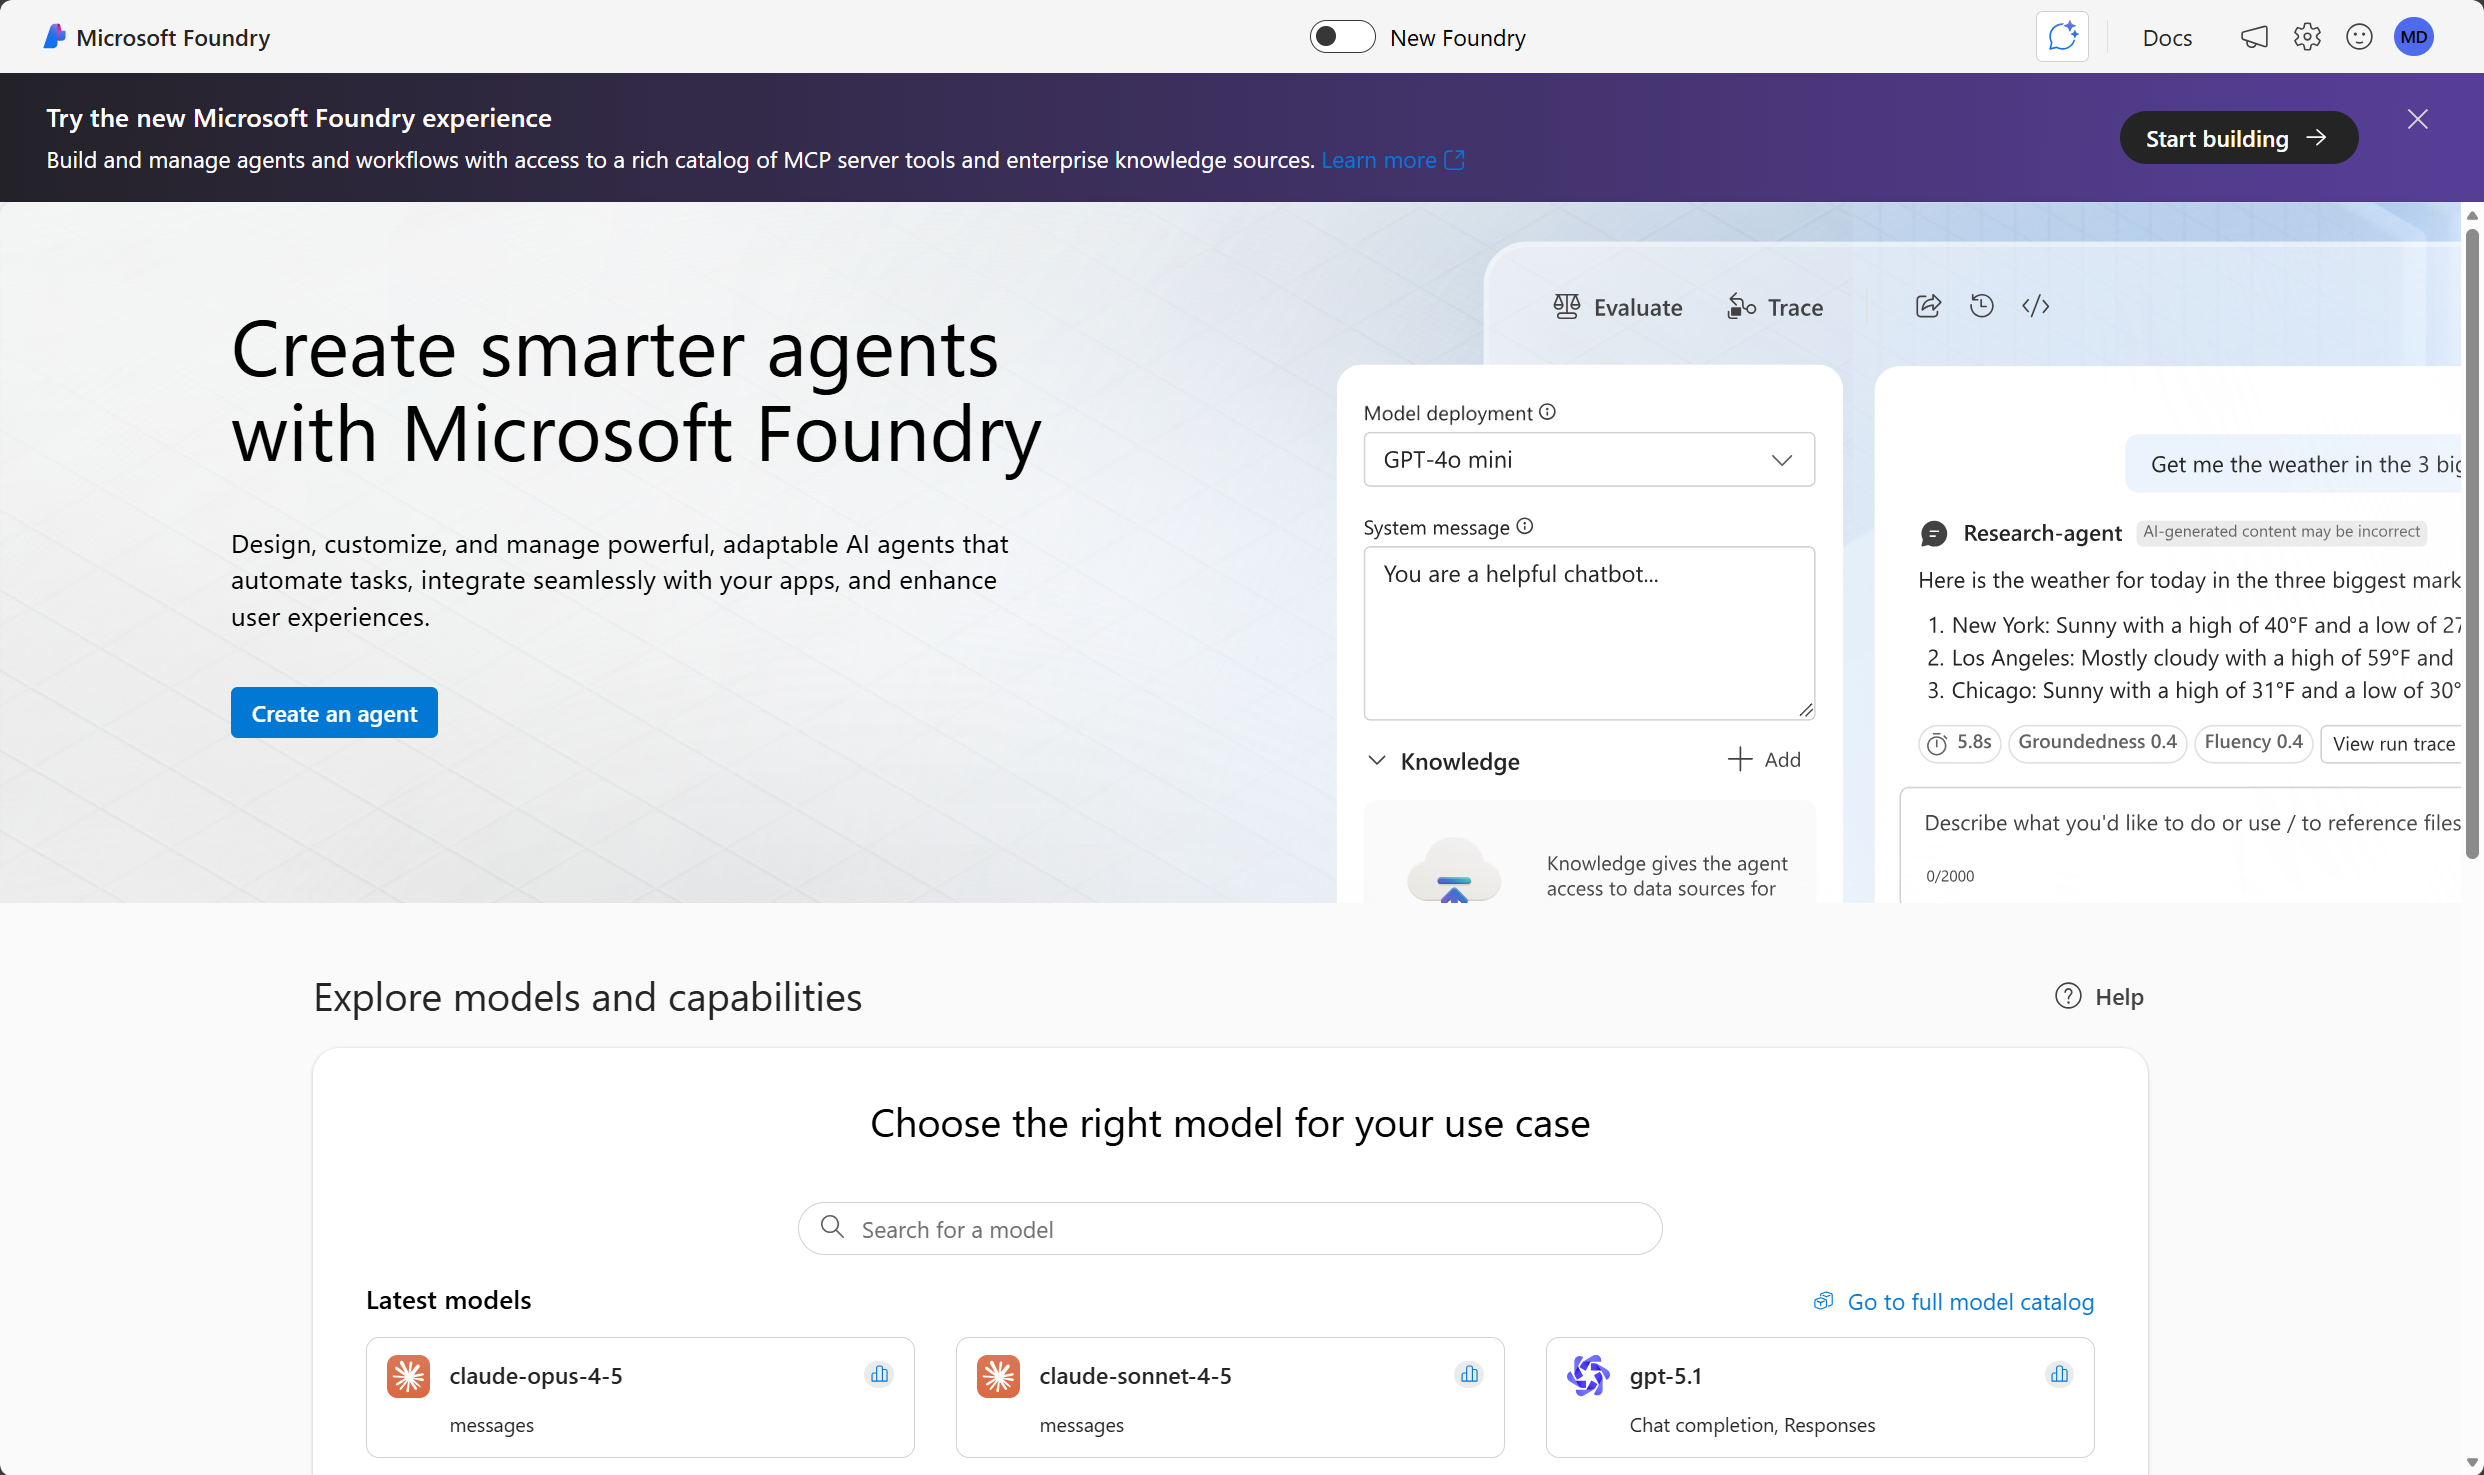
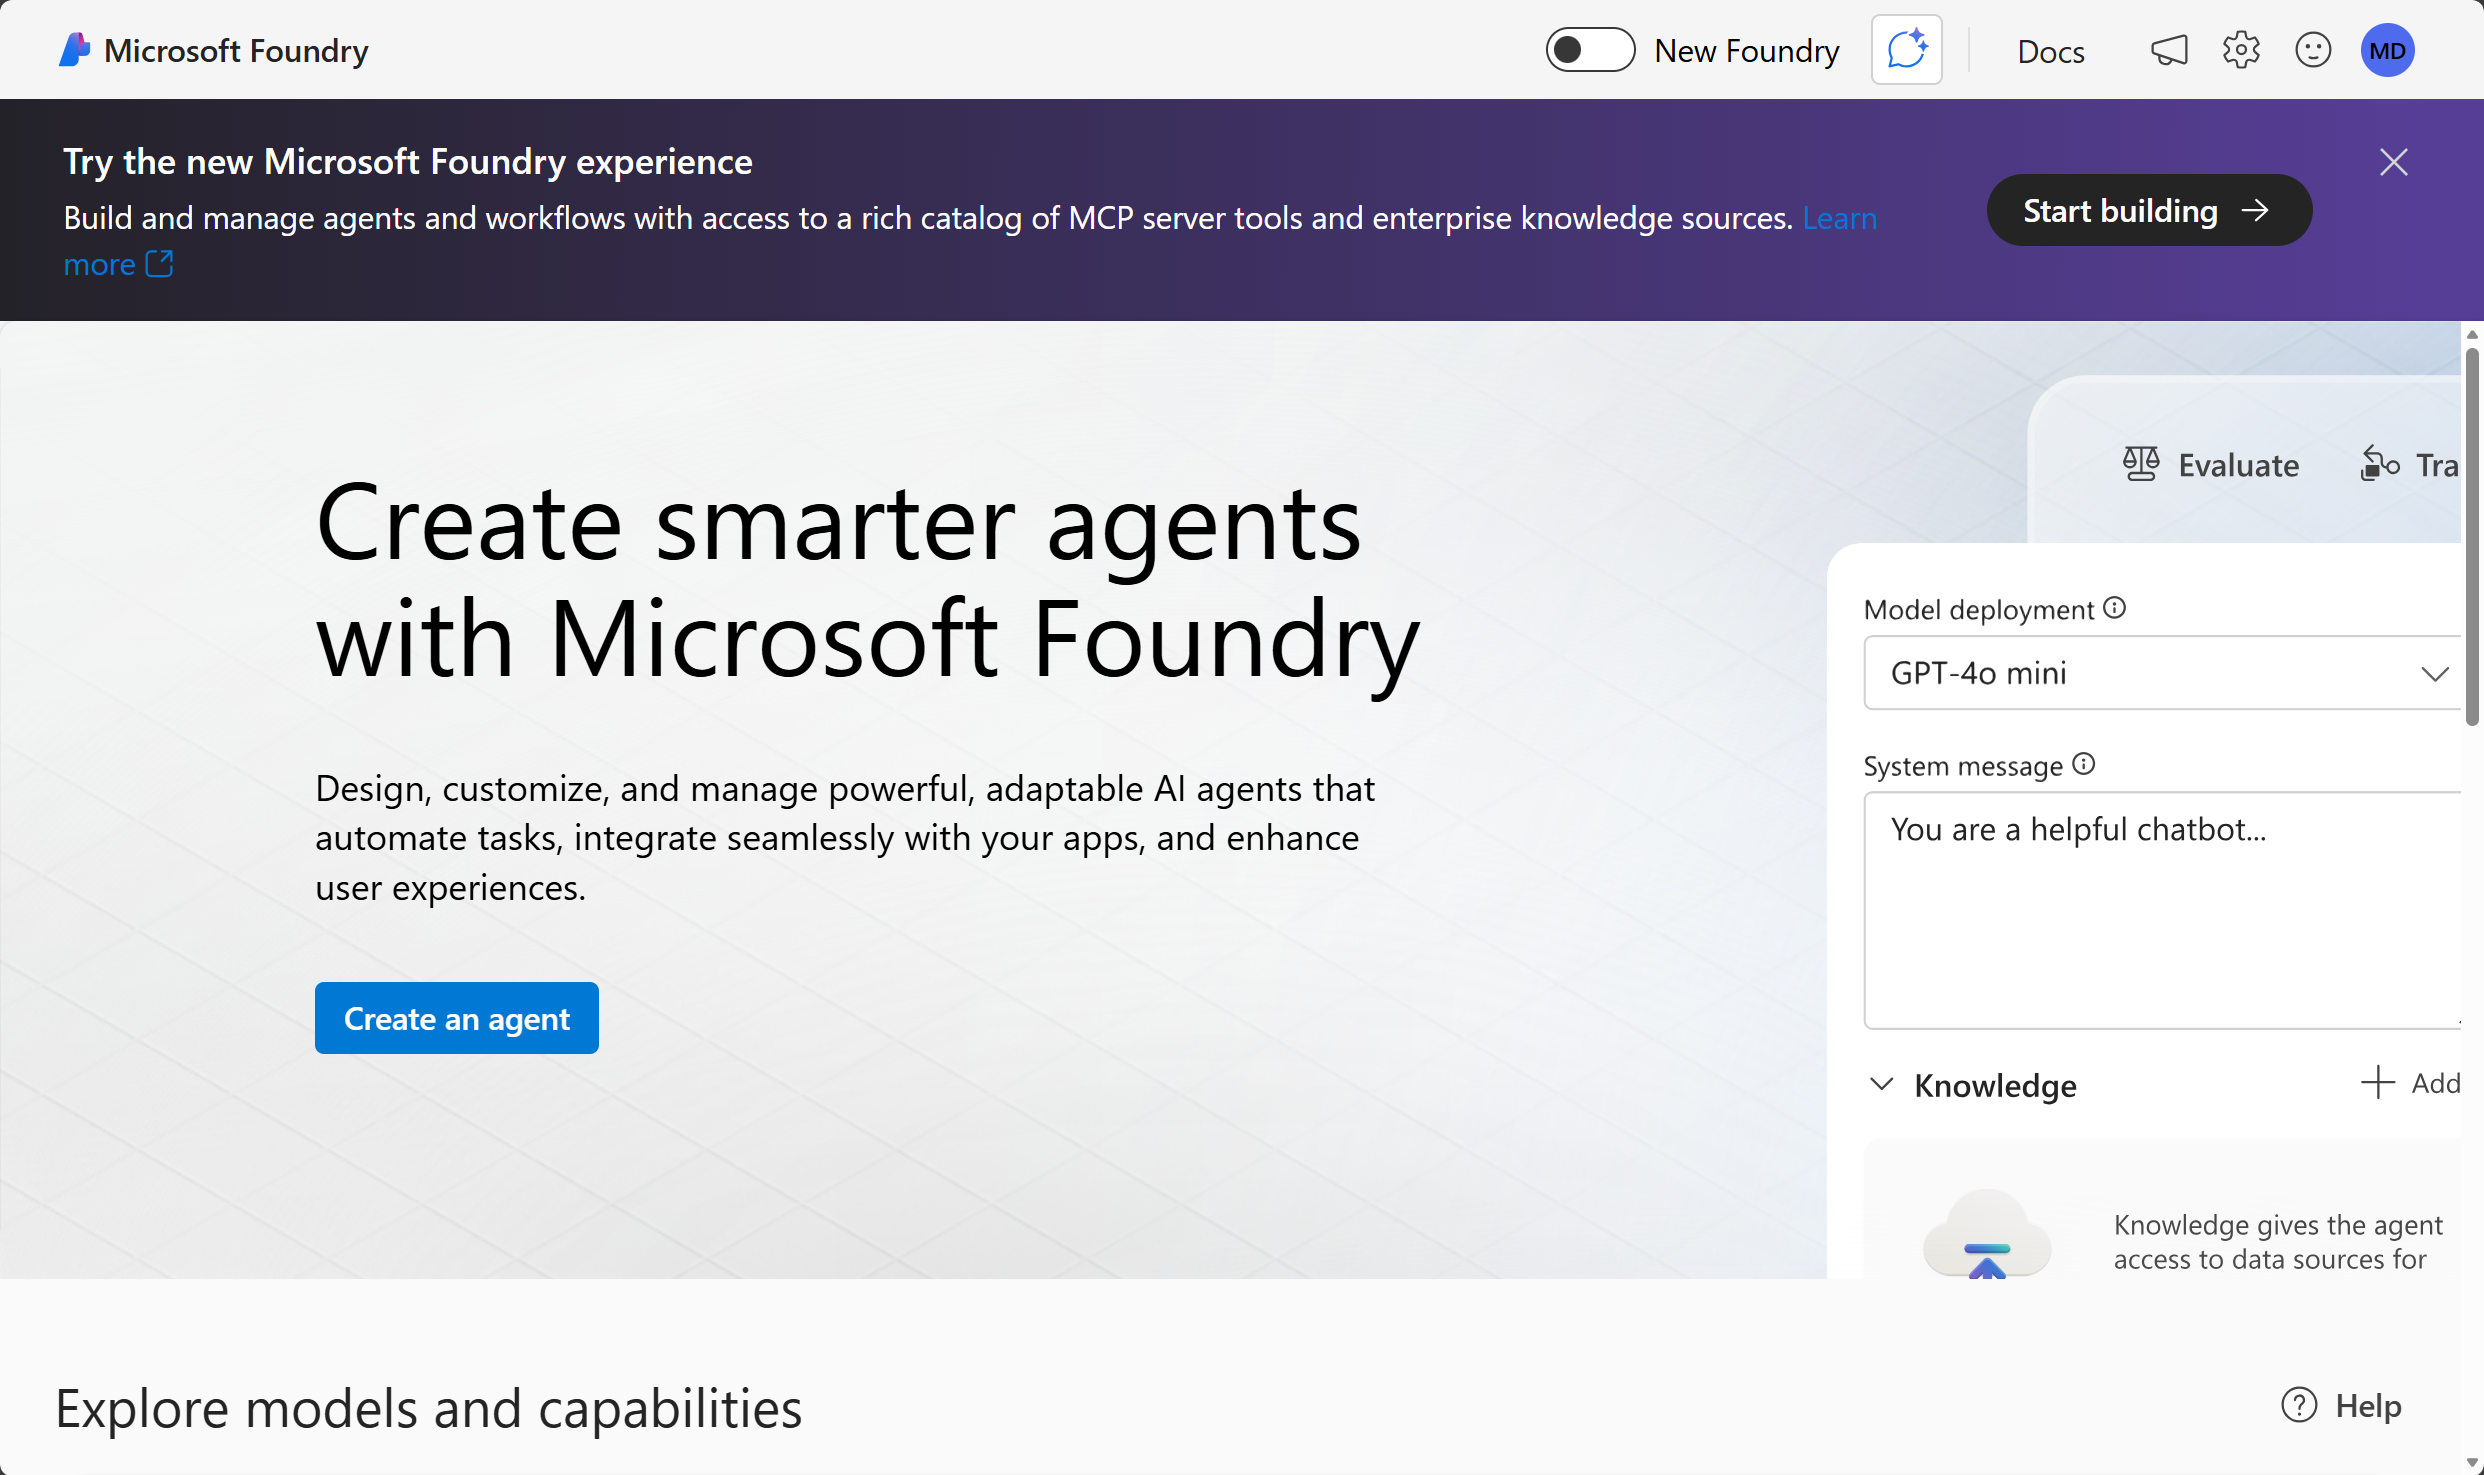
update

diff --git a/Instructions/01-agent-fundamentals.md b/Instructions/01-agent-fundamentals.md
@@ -24,7 +24,7 @@ Let's start by creating a Foundry project.
 1. In the top banner, select **Start building** to try the new Microsoft Foundry Experience.
 1. When prompted, create a **new** project, and enter a valid name for your project.
 1. Expand **Advanced options** and specify the following settings:
-    - **Microsfot Foundry resource**: *A valid name for your Foundry resource*
+    - **Microsoft Foundry resource**: *A valid name for your Foundry resource*
     - **Subscription**: *Your Azure subscription*
     - **Resource group**: *Select your resource group, or create a new one*
     - **Region**: *Select any **AI Foundry recommended***\**
@@ -80,6 +80,25 @@ Now that you've created an agent, you can test it in the playground chat.
     ![Screenshot of the Agent Playground in Foundry portal.](./Media/ai-agent-code-interpreter.png)
 
 1. Download and open the text document to see the expense claim details.
+
+## Optional: Explore the code
+
+After experimenting with your agent in the playground, you may want to integrate it into your own client application. The **Code** tab provides sample code that shows how to interact with your agent programmatically.
+
+1. In the agent playground, select the **Code** tab to view the sample code.
+
+    ![Screenshot showing the Code tab in the agent playground.](./Media/ai-agent-code-tab.png)
+
+1. Review the Python code. This code demonstrates how to:
+    - Connect to your agent using the Azure AI Projects SDK
+    - Send messages to the agent
+    - Retrieve and process responses
+    
+1. Select **.env variables** to view the environment variables you need to run this code.
+1. You can use this code as a starting point for building your own client application that interacts with the agent you created.
+1. Optionally, select **Open in VS Code for the Web** to launch a preconfigured workspace with the sample code ready to run.
+
+    > **Note**: It may take a few minutes for the workspace to be prepared. Follow the instructions provided in the workspace to successfully run the code.
 
 ## Clean up
 
